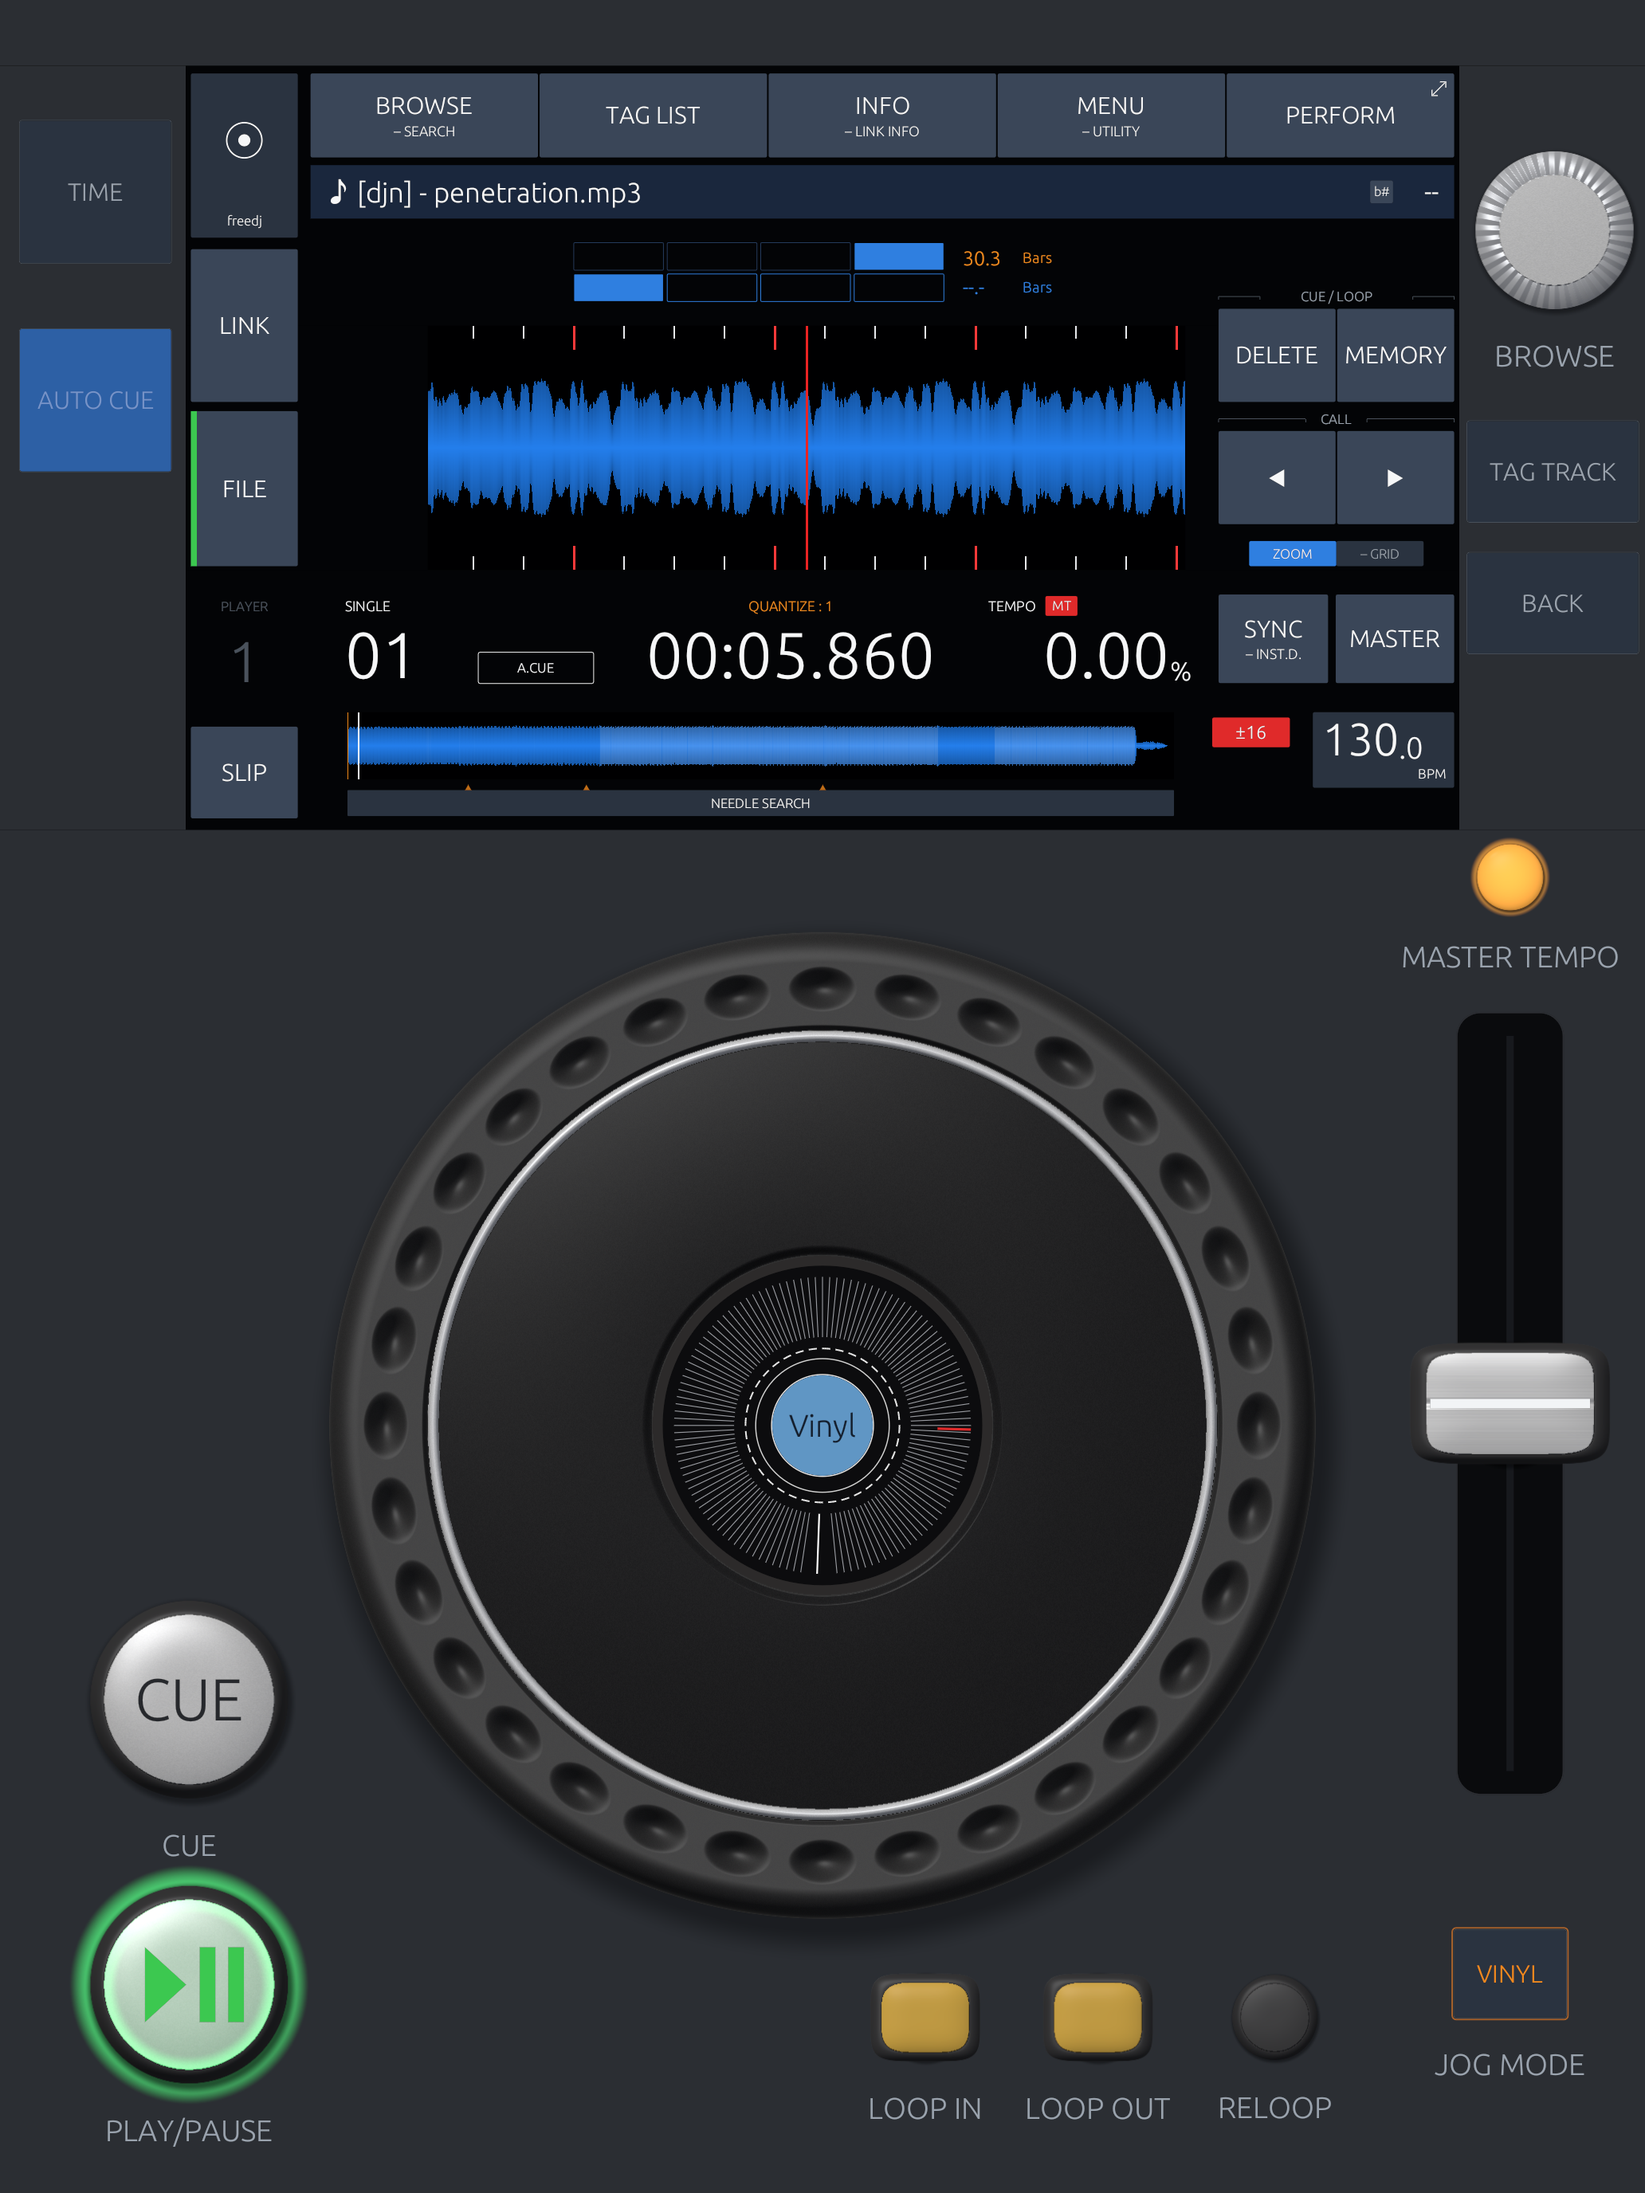
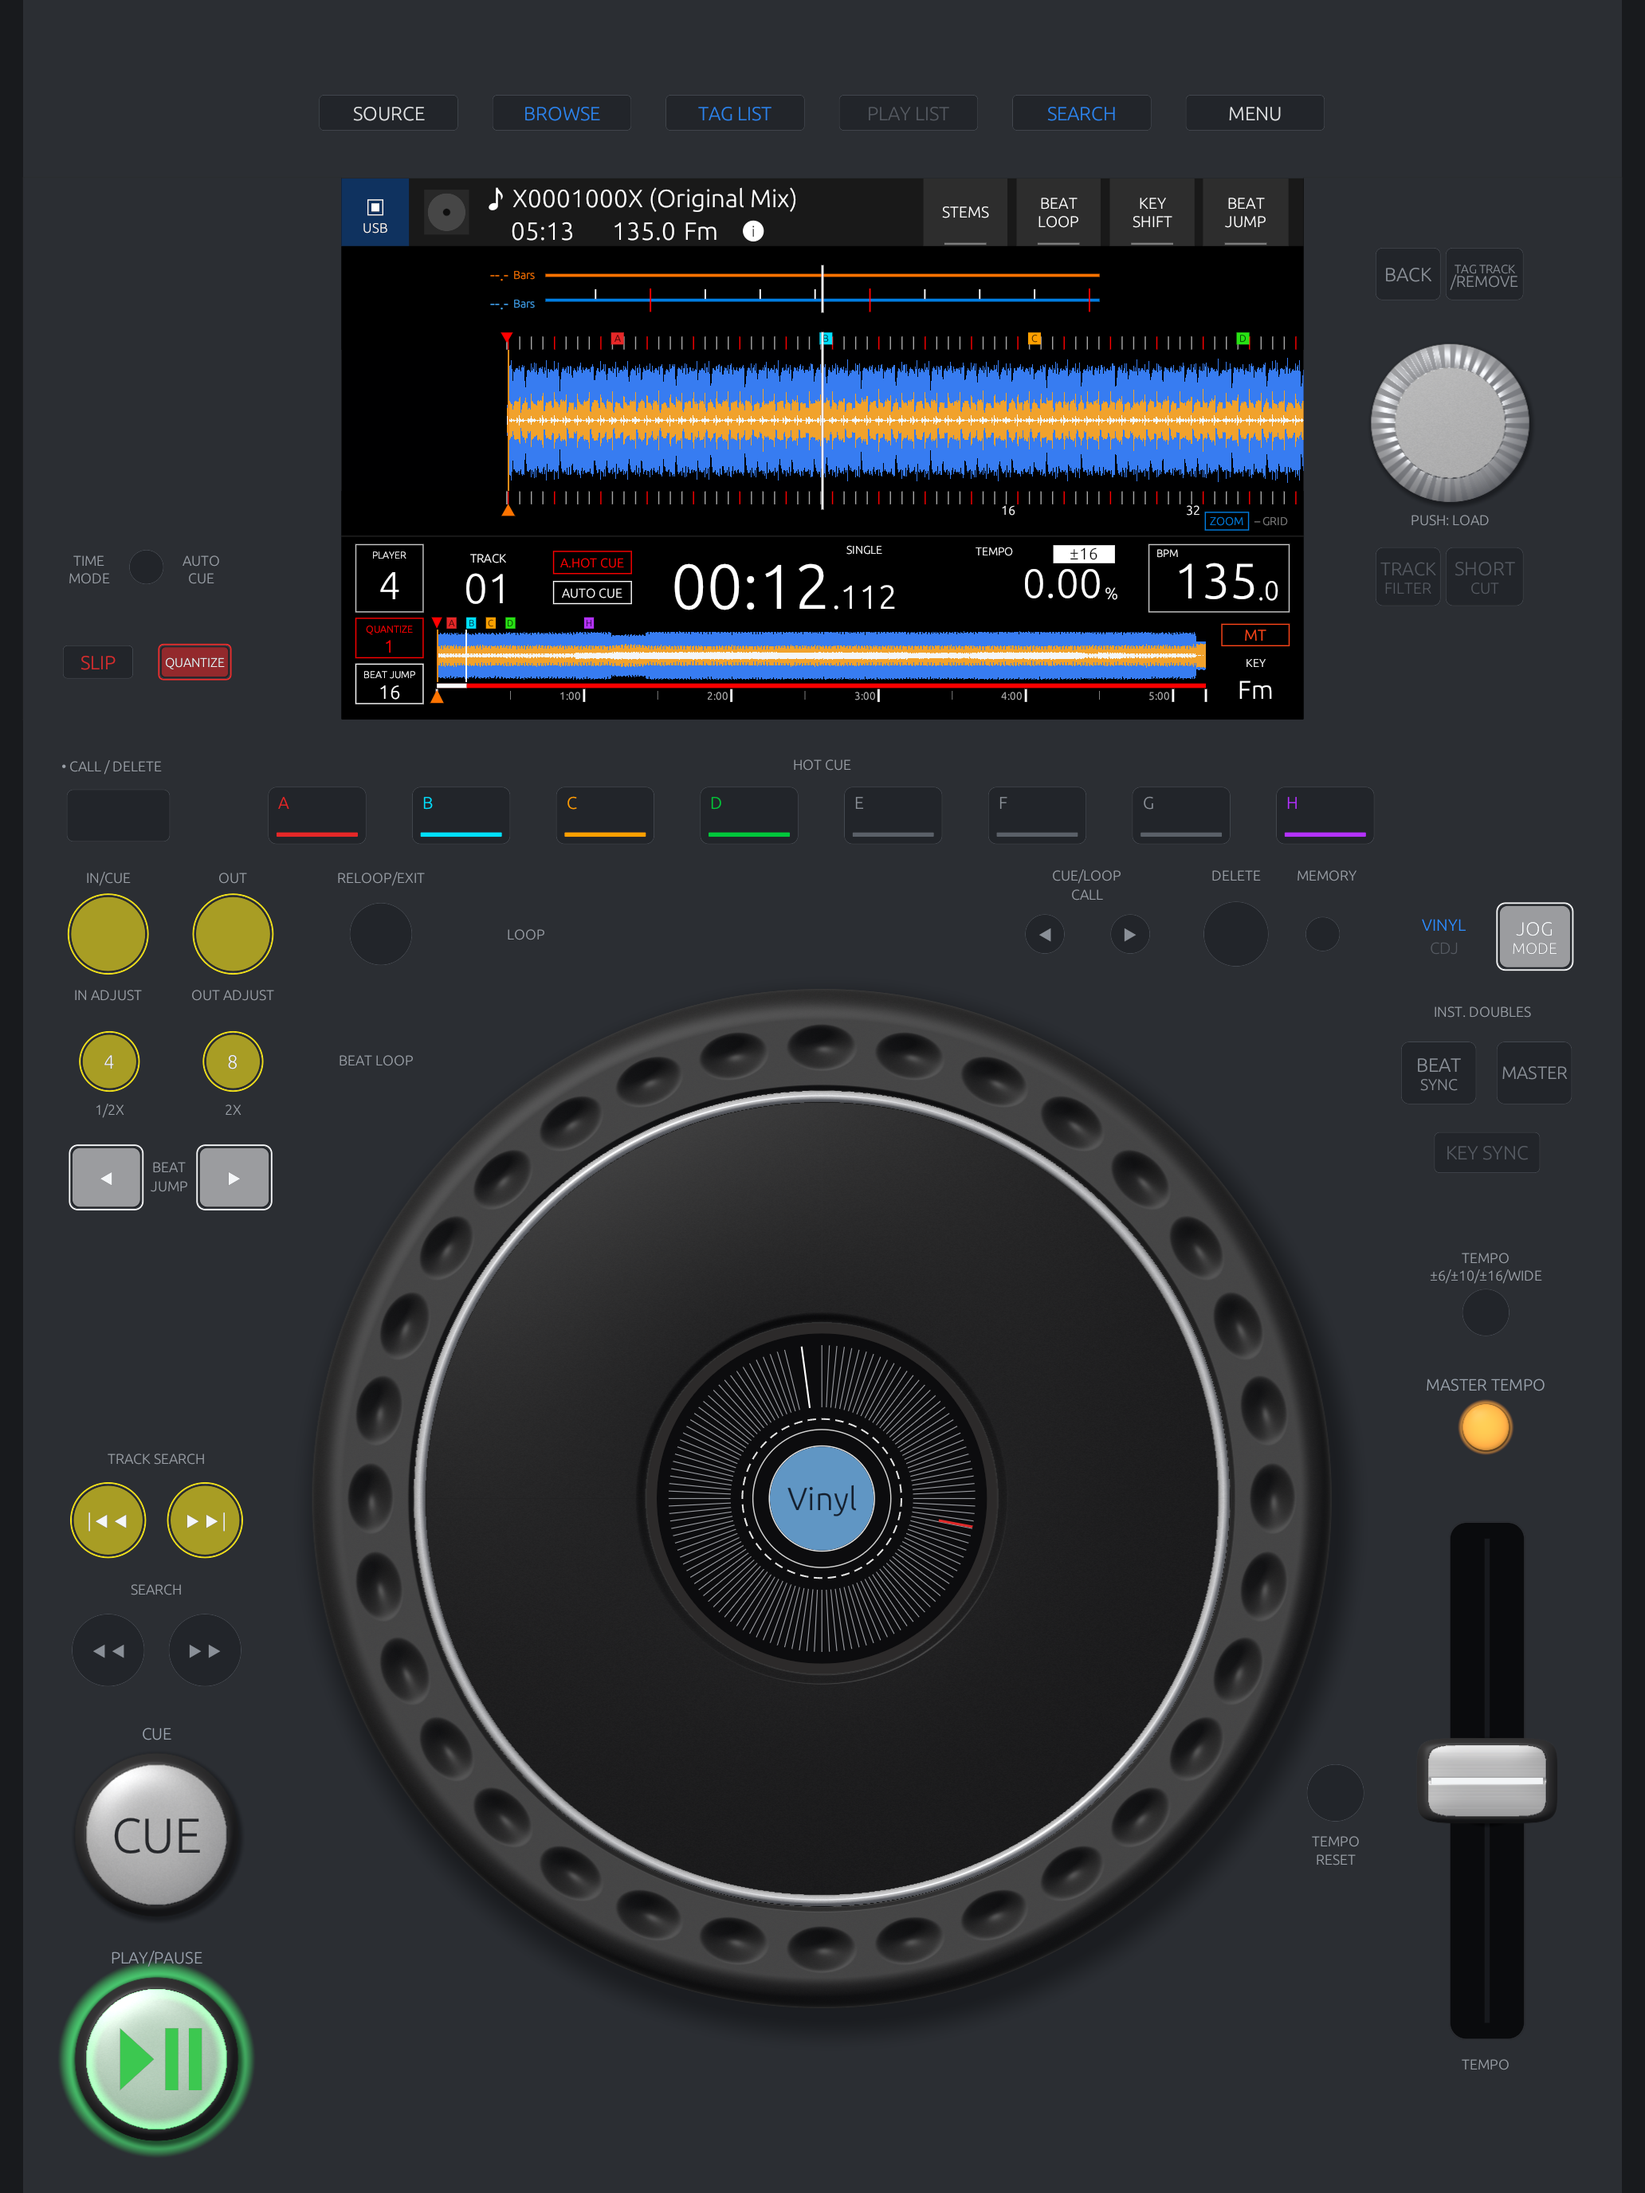
appstore: iPad screenshots of the CDJ-3000 deck, with stems, KEY SHIFT and hot cue colours
Five 2064x2752 shots of the full CDJ-3000 deck as the iPad shows it:
playback (hot cues in rekordbox colours), STEMS (real HTDemucs stems of our
own techno.mp3, vocal muted, harmonics at half), BEAT LOOP (4 beats), KEY
SHIFT (+2, Fm → Gm) and GRID ADJUST. Uploaded to the 0.3.23 draft (iPad 13"
set only; the iPhone set keeps the XDJ layout phones use).

ios/appstore/capture-cdj.sh remakes them: splits the track with the ONNX
model, builds a rekordbox test stick with coloured cues and a grid on the
beat (fixture_stick gains --first-ms), puts the stems on it in OverCue's
format (stick_from_pcm), and captures each scene through the dev script
(new action keyshift=N).

diff --git a/crates/rekordbox/examples/fixture_stick.rs b/crates/rekordbox/examples/fixture_stick.rs
@@ -3,7 +3,7 @@
 //! (`.DAT` + `.EXT`) carrying a beat grid and coloured, commented hot and
 //! memory cues.  Point OpenDeck at it with `OPENDECK_MEDIA_DIRS=<out>/..`.
 //!
-//! cargo run -p opendeck-rekordbox --example fixture_stick -- <out dir> <audio1> [audio2] [--bpm N]
+//! cargo run -p opendeck-rekordbox --example fixture_stick -- <out dir> <audio1> [audio2] [--bpm N] [--first-ms M]
 
 use opendeck_rekordbox::fixtures::{dat_and_ext, pqtz, FxCue};
 use std::path::{Path, PathBuf};
@@ -20,12 +20,18 @@ fn copy_dir(from: &Path, to: &Path) -> std::io::Result<()> {
 
 fn main() -> anyhow::Result<()> {
     let mut args: Vec<String> = std::env::args().skip(1).collect();
-    let bpm = match args.iter().position(|a| a == "--bpm") {
-        Some(i) => { let v = args[i + 1].parse()?; args.drain(i..i + 2); v }
-        None => 120.0,
+    let mut opt = |name: &str, default: f64| -> anyhow::Result<f64> {
+        Ok(match args.iter().position(|a| a == name) {
+            Some(i) => { let v = args[i + 1].parse()?; args.drain(i..i + 2); v }
+            None => default,
+        })
     };
+    let bpm = opt("--bpm", 120.0)?;
+    // Where the first beat is, so the grid sits on the music (the deck's own
+    // analysis: `cargo run -p opendeck-app --example analyze_file`).
+    let first_ms = opt("--first-ms", 0.0)?.round() as u32;
     let [out, audio @ ..] = args.as_slice() else {
-        anyhow::bail!("usage: fixture_stick <out dir> <audio1> [audio2] [--bpm N]");
+        anyhow::bail!("usage: fixture_stick <out dir> <audio1> [audio2] [--bpm N] [--first-ms M]");
     };
     let out = PathBuf::from(out);
     let demo = Path::new(env!("CARGO_MANIFEST_DIR")).join("../../third_party/rekordcrate/data/complete_export/demo_tracks");
@@ -48,7 +54,7 @@ fn main() -> anyhow::Result<()> {
         std::fs::create_dir_all(dst.parent().unwrap())?;
         std::fs::copy(src, &dst)?;
         let dat = t.analyze_on(&out).ok_or_else(|| anyhow::anyhow!("{} has no analysis path", t.title))?;
-        let (d, e) = dat_and_ext(pqtz(bpm, 0, 2000), &mem, &hot);
+        let (d, e) = dat_and_ext(pqtz(bpm, first_ms, 2000), &mem, &hot);
         std::fs::write(&dat, d)?;
         std::fs::write(dat.with_extension("EXT"), e)?;
         println!("{} ← {} ({} hot cues)", t.title, src, hot.len());

diff --git a/crates/app/src/devscript.rs b/crates/app/src/devscript.rs
@@ -55,6 +55,8 @@ pub enum Action {
     Quit,
     /// DECK VIEW: flip full deck ↔ screen only (the F key).
     DeckView,
+    /// KEY SHIFT to this many semitones.
+    KeyShift(i8),
 }
 
 /// Parse a script; entries are sorted by time. Errors name the bad entry.
@@ -92,6 +94,7 @@ pub fn parse(src: &str) -> Result<Vec<(f64, Action)>, String> {
             _ if act.starts_with("rotary=") => Action::Rotary(act[7..].trim().parse().map_err(|_| format!("{entry:?}: bad detents"))?),
             _ if act.starts_with("lamps=") => Action::Lamps(act[6..].trim().to_string()),
             _ if act.starts_with("shot=") => Action::Shot(act[5..].trim().to_string()),
+            _ if act.starts_with("keyshift=") => Action::KeyShift(act[9..].trim().parse().map_err(|_| format!("{entry:?}: bad semitones"))?),
             _ if act.starts_with("stems=") => {
                 let g: Vec<f32> = act[6..].split(',').map(|v| v.trim().parse::<f32>()).collect::<Result<_, _>>()
                     .map_err(|_| format!("{entry:?}: want stems=<drums>,<vocal>,<harmonics>"))?;

diff --git a/crates/app/src/lib.rs b/crates/app/src/lib.rs
@@ -2167,6 +2167,7 @@ impl DeckApp {
                 A::Shot(p) => self.script_shot = Some(p),
                 A::Stems(g) => { for (i, v) in g.iter().enumerate() { self.audio.stems.set_gain(i, *v); } log::info!("script: stems {g:?}"); }
                 A::DeckView => self.events.push(Event::Ui(UiEvent::DeckView)),
+                A::KeyShift(n) => self.apply(Event::Deck(ControlEvent::KeyShift { semitones: n })),
                 A::Quit => { log::info!("script: quit"); log::logger().flush(); std::process::exit(0); }
             }
         }

diff --git a/ios/appstore/METADATA.md b/ios/appstore/METADATA.md
@@ -85,11 +85,15 @@ Upload in this order; the first two are what shows in search.
 
 | # | File | Shows |
 |---|---|---|
-| 1 | `01-playback.png` | Deck playing: waveform, jog, tempo fader, memory points |
-| 2 | `02-loop.png` | A 4-beat loop engaged with the phase meter running |
-| 3 | `03-perform.png` | PERFORM screen: hot cues A–D and beat-loop pads |
-| 4 | `04-browse.png` | BROWSE with a folder of tracks from the Files app |
-| 5 | `05-grid.png` | GRID ADJUST keys (RESET / SNAP / SHIFT) |
+| 1 | `01-playback.png` | The CDJ-3000 deck playing: waveforms, hot cues in their rekordbox colours on the screen and the pads, jog, tempo fader |
+| 2 | `02-stems.png` | STEMS: drums at full, vocal muted, harmonics at about half; the big waveform follows the mix |
+| 3 | `03-beatloop.png` | BEAT LOOP panel with a 4-beat loop running |
+| 4 | `04-keyshift.png` | KEY SHIFT +2: Fm up to Gm, the tempo unchanged |
+| 5 | `05-grid.png` | GRID ADJUST keys (SNAP GRID, SHIFT GRID, ½ beat, RESET) |
+
+Made by `ios/appstore/capture-cdj.sh` (our own track, real HTDemucs stems
+for it on a rekordbox test stick). The iPhone set is still `capture.sh`'s:
+phones show the XDJ-1000MK2 layout.
 
 They are the app's own renderer at the 13" panel's exact pixel size (same draw
 code the iPad runs), no alpha channel, sRGB.  App Store Connect reuses the 13"
